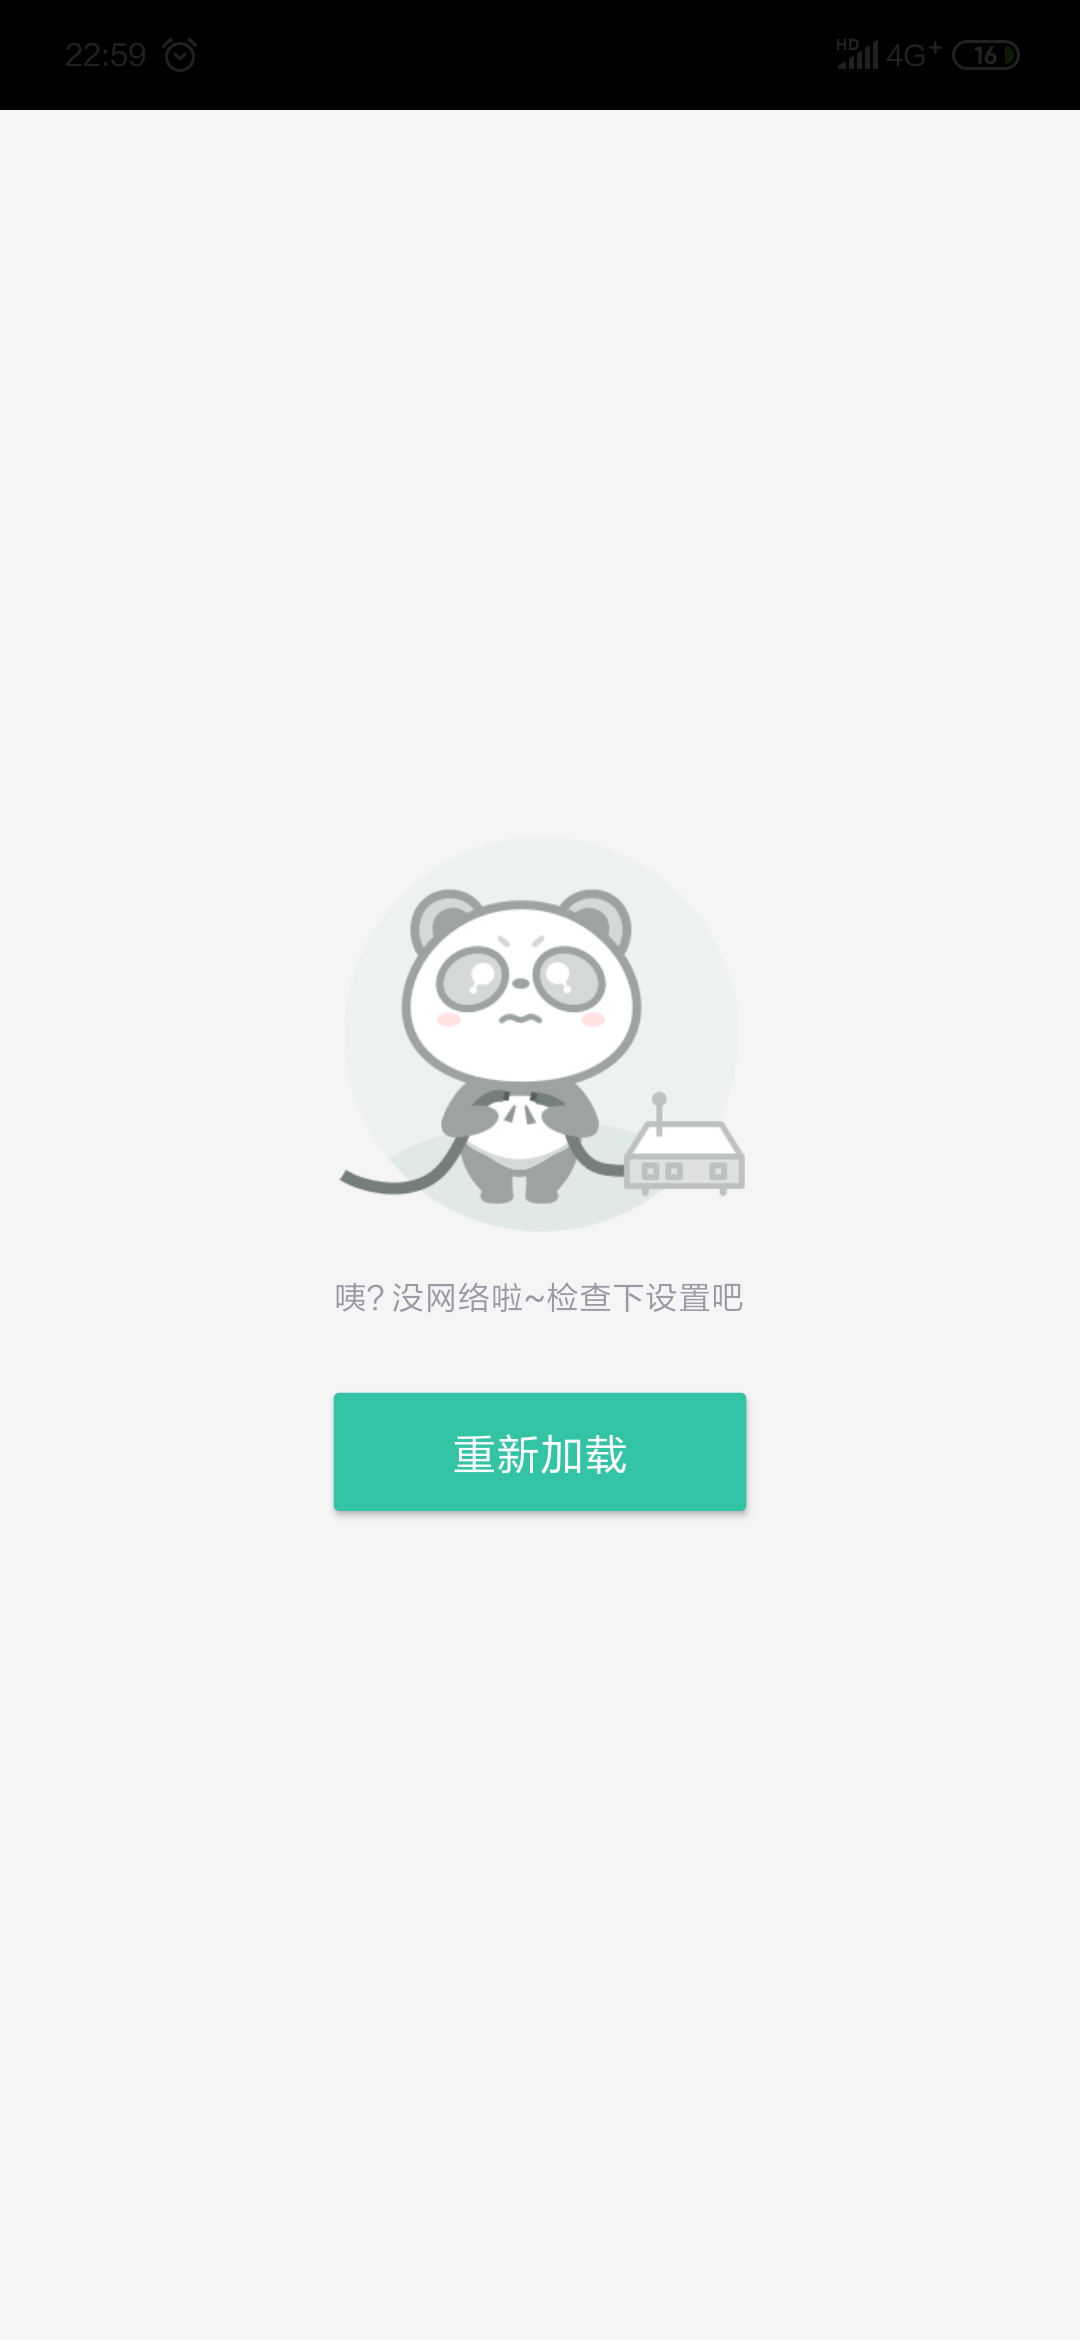
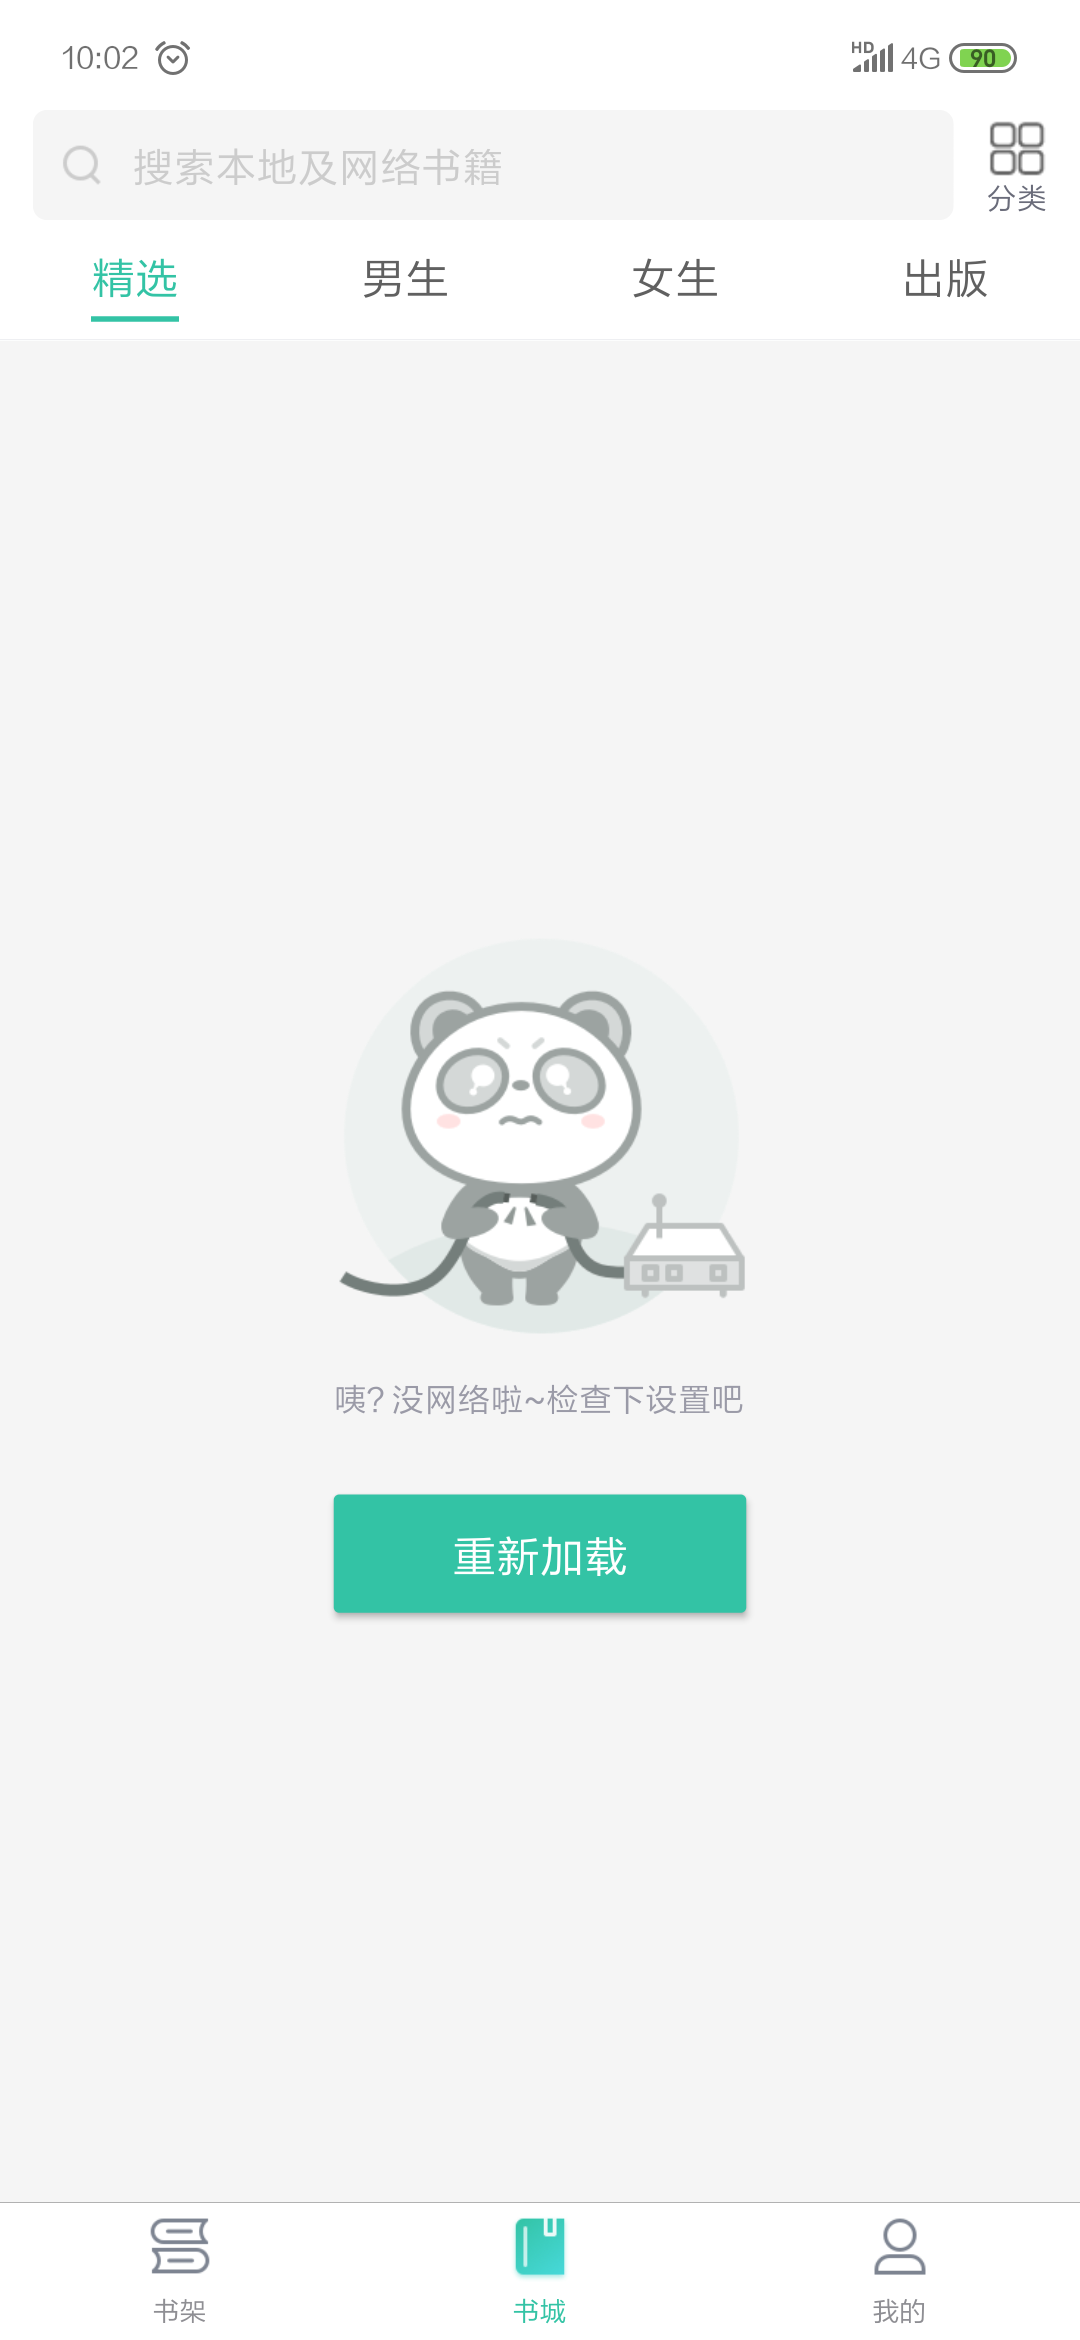
feat: 书城增加网络加载重试

diff --git a/lib/ui/home/home_tab_list_view.dart b/lib/ui/home/home_tab_list_view.dart
@@ -6,6 +6,7 @@ import 'package:flutter_books/res/colors.dart';
 import 'package:flutter_books/res/dimens.dart';
 import 'package:flutter_books/ui/details/book_info_page.dart';
 import 'package:flutter_books/util/utils.dart';
+import 'package:flutter_books/widget/load_view.dart';
 import 'package:flutter_swiper/flutter_swiper.dart';
 
 ///@author longshaohua
@@ -25,9 +26,10 @@ class HomeTabListView extends StatefulWidget {
 }
 
 class _HomeTabListViewState extends State<HomeTabListView>
-    with AutomaticKeepAliveClientMixin {
+    with AutomaticKeepAliveClientMixin
+    implements OnLoadReloadListener {
   List<Books> _list = [];
-
+  LoadStatus _loadStatus = LoadStatus.LOADING;
   List<String> _listImage = [
     "images/icon_swiper_1.png",
     "images/icon_swiper_2.png",
@@ -44,6 +46,12 @@ class _HomeTabListViewState extends State<HomeTabListView>
 
   @override
   Widget build(BuildContext context) {
+    if (_loadStatus == LoadStatus.LOADING) {
+      return LoadingView();
+    }
+    if (_loadStatus == LoadStatus.FAILURE) {
+      return FailureView(this);
+    }
     return ListView.builder(
       itemCount: _list.length + 1,
       itemBuilder: (context, position) {
@@ -143,7 +151,7 @@ class _HomeTabListViewState extends State<HomeTabListView>
         itemBuilder: (BuildContext context, int index) {
           print("index = $index");
           return Container(
-            margin: const EdgeInsets.only(top: 16,bottom: 10),
+            margin: const EdgeInsets.only(top: 16, bottom: 10),
             decoration: BoxDecoration(
                 image: DecorationImage(
                   image: AssetImage(_listImage[index]),
@@ -159,7 +167,8 @@ class _HomeTabListViewState extends State<HomeTabListView>
           Navigator.push(
             context,
             new MaterialPageRoute(
-                builder: (context) => BookInfoPage("59ba0dbb017336e411085a4e", false)),
+                builder: (context) =>
+                    BookInfoPage("59ba0dbb017336e411085a4e", false)),
           );
         },
         viewportFraction: 0.9,
@@ -205,13 +214,25 @@ class _HomeTabListViewState extends State<HomeTabListView>
     await Repository().getCategories(categoriesReq.toJson()).then((json) {
       var categoriesResp = CategoriesResp.fromJson(json);
       setState(() {
+        _loadStatus = LoadStatus.SUCCESS;
         _list = categoriesResp.books;
       });
     }).catchError((e) {
+      setState(() {
+        _loadStatus = LoadStatus.FAILURE;
+      });
       print(e.toString());
     });
   }
 
   @override
   bool get wantKeepAlive => true;
+
+  @override
+  void onReload() {
+    setState(() {
+      _loadStatus = LoadStatus.LOADING;
+    });
+    getData();
+  }
 }

diff --git a/lib/ui/bookshelf/bookshelf_page.dart b/lib/ui/bookshelf/bookshelf_page.dart
@@ -133,7 +133,12 @@ class BookshelfPageState extends State<BookshelfPage> {
               }
             },
             onTap: () {
-              if (!addBookshelfItem) {
+              if (addBookshelfItem) {
+                Navigator.push(
+                  context,
+                  MaterialPageRoute(builder: (context) => BookSearchPage()),
+                );
+              } else {
                 Navigator.push(context, MaterialPageRoute(builder: (context) {
                   return BookContentPage(
                       _listBean[index].bookUrl,
